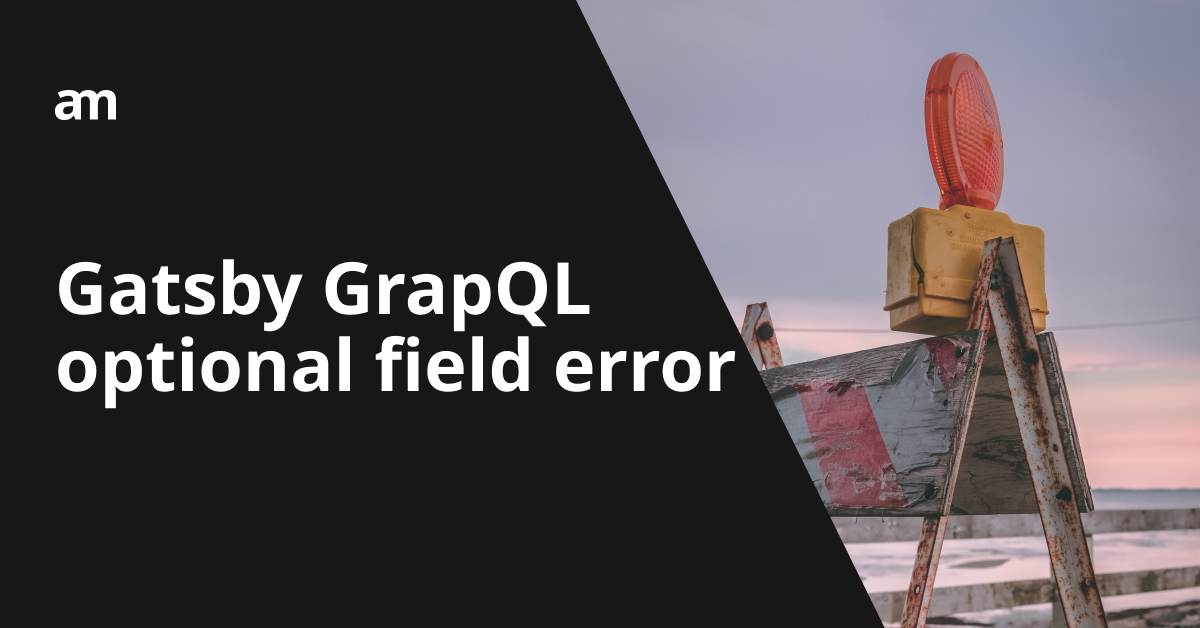
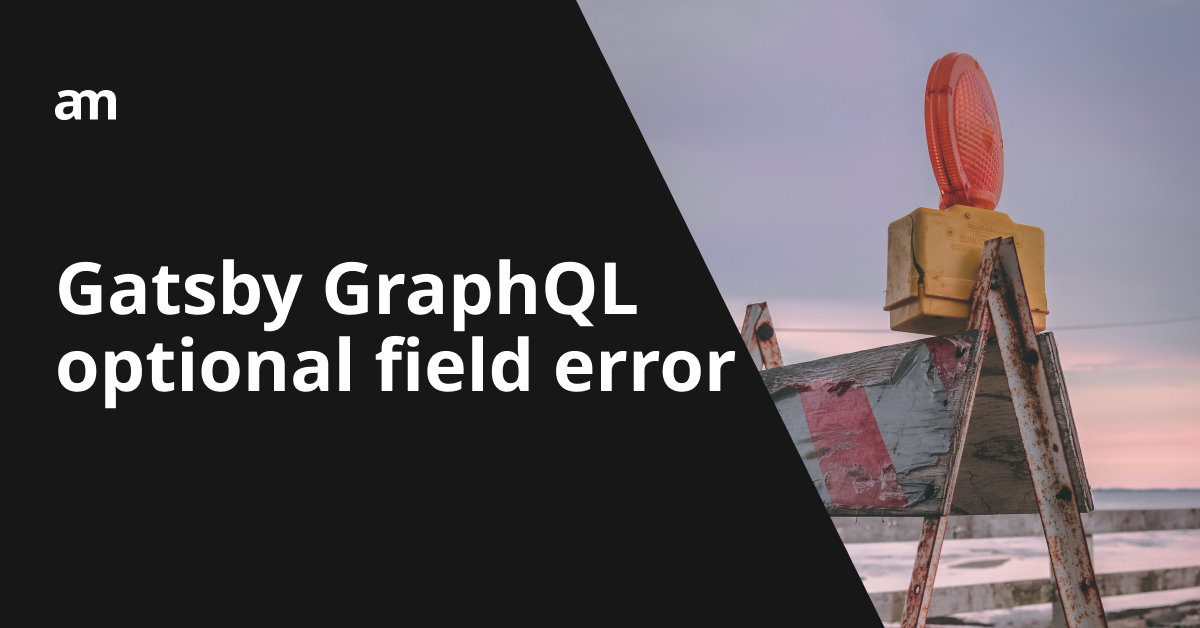
[Blog] - Fix image typo

Changed region(s): [[0.4008, 0.3933, 0.555, 0.5143]]

diff --git a/src/blog/gatsby-optional-field-error.md b/src/blog/gatsby-optional-field-error.md
@@ -4,7 +4,7 @@ date: "2021-08-23"
 title: "Gatsby optional field error"
 tags: ["gatsby", "grapqhl", "frontend"]
 description: "How I fixed GraphQL error #85923 for optional field in Gatsby."
-image: "../images/blog/gatsby-optional-field-error"
+image: "../images/blog/gatsby-optional-field-error.jpg"
 ---
 ## Github repository
 You can clone the [demo repository](https://github.com/ashvinmotye/demo-gatsby) from Github using:
